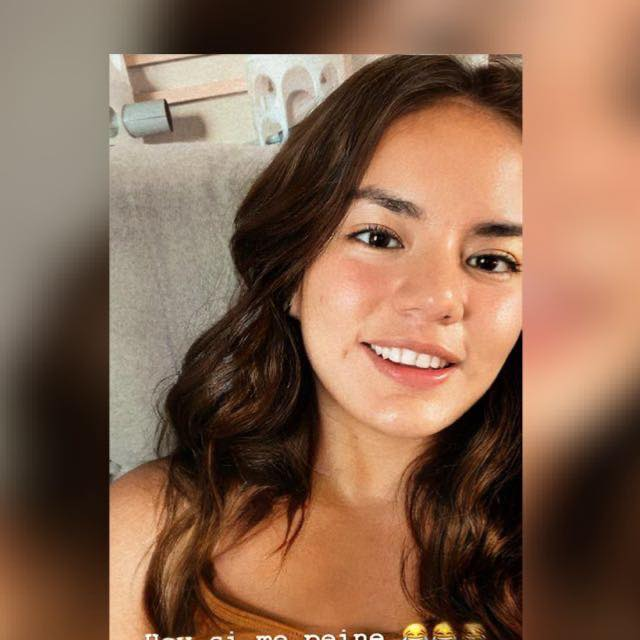
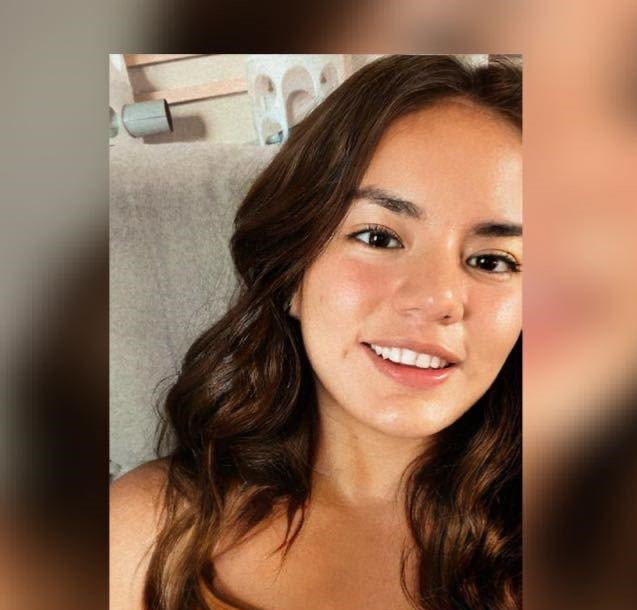
fixed more colors and pic

Changed region(s): [[0.1491, 0.0623, 1.0, 1.0], [0.0, 0.841, 0.1193, 0.9344], [0.2088, 0.2803, 0.2386, 0.3115]]

diff --git a/web/src/app/main/main.component.css b/web/src/app/main/main.component.css
@@ -38,54 +38,84 @@
 }
 .row{
     display: flex;
+    padding-left: 30px;
 }
 .column{
+    /* border: 1px solid black; */
    flex: 50%; 
    text-align: center;
    padding-left: 30px;
+   width: 80%;
 }
 
 .description{
+    text-align: center;
     margin-top: 160px;
     font-size: 25px;
     margin-right: 50px;
     font-weight: 600;
     font-family: 'Montserrat Alternates', sans-serif;
+    max-width: fit-content;
 }
+
+.circle { 
+    width: 450px;
+    height: 450px;
+    background: radial-gradient(#a6c3d5,#f6c1db); 
+    -moz-border-radius: 70px; 
+    -webkit-border-radius: 70px; 
+    border-radius: 50%;
+    top: 15px;
+    -webkit-transform: skew(27deg);
+ }
+
 
 .profile{
     --image-size: 450px;
     width: var(--image-size);
     height: var(--image-size);
-    background-image: url("..\..\assets\pictures\Mel_AI.jpeg");
+    background-image: url("..\..\assets\pictures\Profile_Picture.jpg");
     background-position: center center;
     background-repeat: no-repeat;
     background-size: cover;
     border-radius: 75% 25% / 50%;
+    -webkit-transform: skew(-27deg);
+}
+
+
+
+.categories .card{
+    min-width: fit-content;
 }
 .img-wrapper{
-    margin-top: 30px;
-    padding-left: 50px;
+    display: table-cell;
+    vertical-align: top;
+    text-align: center;
+    margin-top: 40px;
+    /* margin-top: 30px;
+    padding-left: 50px; */
 }
 #contact-icon{
     width: 150px;
-    /*#f6c1db pink*/
-    filter: invert(81%) sepia(19%) saturate(526%) hue-rotate(288deg) brightness(101%) contrast(93%);
+    /*#a6c3d5 light blue*/
+    filter: invert(88%) sepia(7%) saturate(1731%) hue-rotate(174deg) brightness(93%) contrast(79%);
+    
 }
 #about-icon{
     width: 150px;
-    /*#a6c3d5 light blue*/
-    filter: invert(88%) sepia(7%) saturate(1731%) hue-rotate(174deg) brightness(93%) contrast(79%);
-}
+        /*#d4ccdb  green #88c589 */
+    filter: invert(72%) sepia(35%) saturate(369%) hue-rotate(72deg) brightness(95%) contrast(87%); 
+}   
 #exp-icon{
     width: 150px;
-    /*#d4ccdb purple*/
-    filter: invert(91%) sepia(13%) saturate(178%) hue-rotate(230deg) brightness(89%) contrast(92%);
+    /*#f6c1db pink*/
+    filter: invert(81%) sepia(19%) saturate(526%) hue-rotate(288deg) brightness(101%) contrast(93%);
+    
 }
 #proj-icon{
     width: 150px;
-    /*#FDF3DD white  green #88c589 filter: invert(72%) sepia(35%) saturate(369%) hue-rotate(72deg) brightness(95%) contrast(87%);*/
-    filter: invert(93%) sepia(18%) saturate(414%) hue-rotate(322deg) brightness(104%) contrast(98%);
+     /*#FDF3DD white */
+     filter: invert(93%) sepia(18%) saturate(414%) hue-rotate(322deg) brightness(104%) contrast(98%); 
 }
 .categories h5{
     font-family: 'Pacifico', cursive;
@@ -94,9 +124,10 @@
     padding-bottom: 0;
     text-align: center;
 }
+
 .space {
     display: inline-block;
-    height: 60px;
+    height: 80px;
     width: auto;
 }
 .card:hover{

diff --git a/web/src/app/main/main.component.html b/web/src/app/main/main.component.html
@@ -12,18 +12,21 @@
         <div class="space"></div>
         <div class="row">
             <div class="column">
+              <div class="circle">
                 <div class="profile"></div>
+                <div class="circle2"></div>
+              </div>
             </div>
             <div class="column">
                 <div class="subintro">
                     <div class="description">
-                        <p> I'm a Software Engineer and Full-Stack Developer seeking to further my knowledge every day. </p>
+                        <p> I'm a Software Engineer and <br> Full-Stack Developer <br> seeking to further my knowledge every day. </p>
                     </div>
                 </div>
             </div>
         </div>
         </div>
-        <div class="space" style="display: inline-block;height: 150px;width: auto;"></div>
+        <div class="space" style="display: inline-block;height: 200px;width: auto;"></div>
         <div class="categories">
             <div class="row row-cols-2 row-cols-md-4">
                 <div class="col mb-4">
